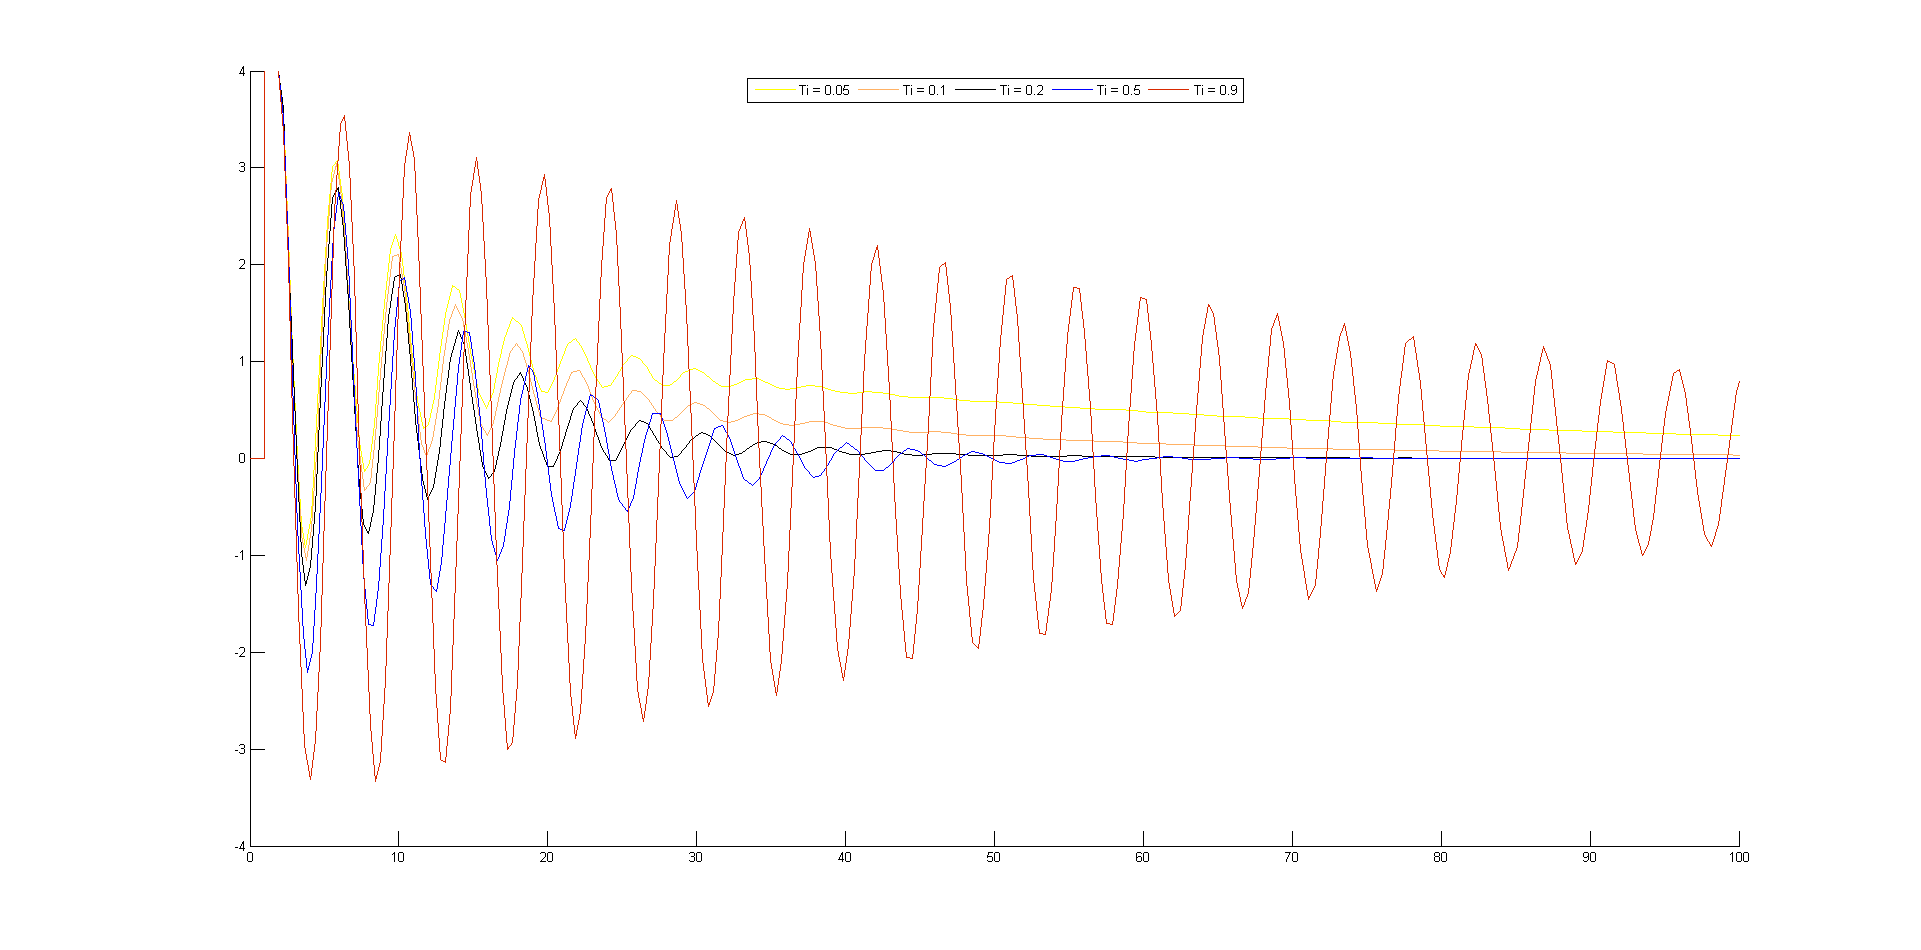
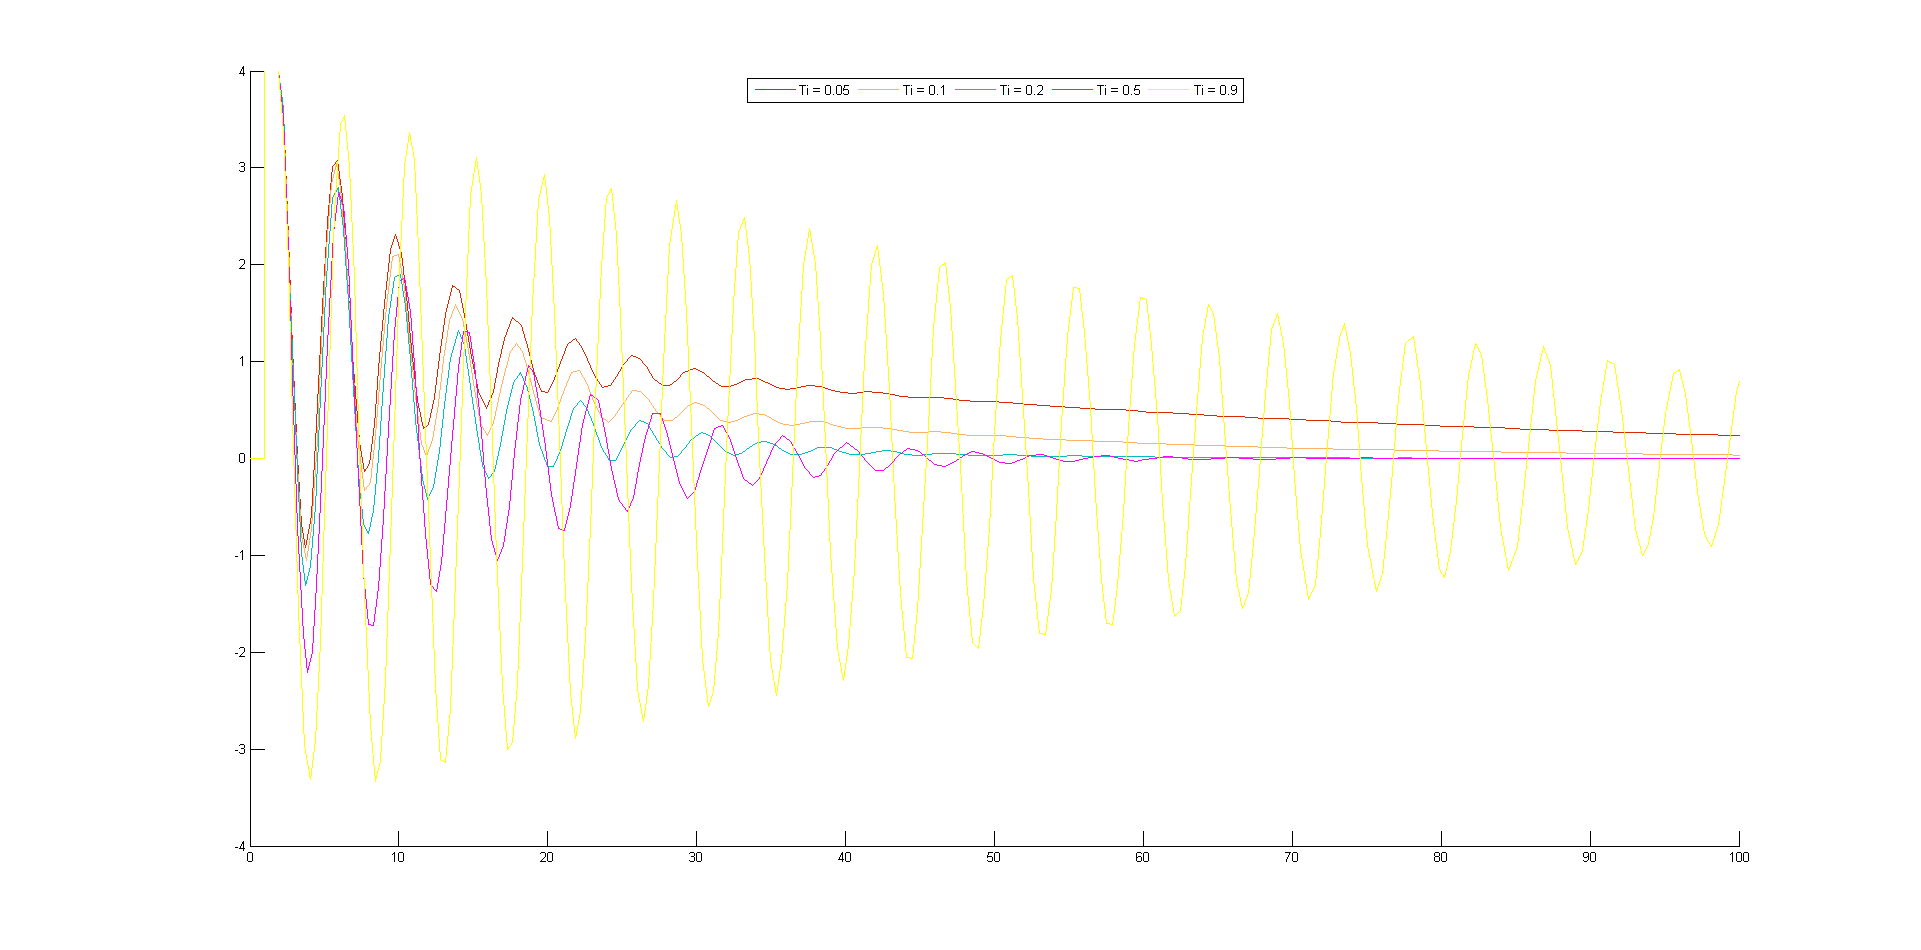
Troche w PID...

Changed region(s): [[0.1562, 0.2137, 0.2811, 0.4884]]

diff --git a/Cwiczenie5/Cwiczenie 5 - Sprawozdanie.tex b/Cwiczenie5/Cwiczenie 5 - Sprawozdanie.tex
@@ -157,6 +157,35 @@ Na wykresach \ref{fig:symulacjaP} możemy zaobserwować, że:
 \end{itemize}
 
 \subsubsection{Regulator PID}
+\begin{figure}[!h]
+    \centering
+	\includegraphics[width=120mm]{CW5-N3C2d1-k03-22.png}
+	\caption{Wykresy przebiegu błędu regulacji przy zmianie parametru $k$}
+    \label{fig:symulacjaP}
+\end{figure}
+
+Jest to sytuacja przedstawiona w poprzednim zadaniu, więc nie będziemy komentować.
+
+\subsubsection{Regulator PID}
+\begin{figure}[!h]
+    \centering
+	\includegraphics[width=120mm]{CW5-N3C2d1-k18-ti005-09.png}
+	\caption{Wykresy przebiegu błędu regulacji przy zmianie parametru $T_i$}
+    \label{fig:symulacjaP}
+\end{figure}
+
+Widać, że dzięki $T_i$ wykres zaczyna się zbliżać do 0, ale po przekroczeniu wartości $T_i \approx 0.5$ amplituda zaczyna szybko rosnąć.
+TODO: Lepiej sformułować + może jakieś więcej obserwacji.
+
+\begin{figure}[!h]
+    \centering
+	\includegraphics[width=120mm]{CW5-N3C2d1-k18-ti02-td01-1.png}
+	\caption{Wykresy przebiegu błędu regulacji przy zmianie parametru $T_d$}
+    \label{fig:symulacjaP}
+\end{figure}
+
+Widać, że dzięki $T_d$ 'częstotliwość drgań' się zwiększa, ale znowu po przekroczeniu $T_d \approx 0.8$ amplituda się @%%^^&*#...
+TODO: Lepiej sformułować + może jakieś więcej obserwacji.
 
 \subsection{Korekcja}
 
